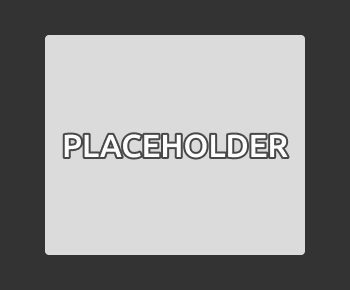
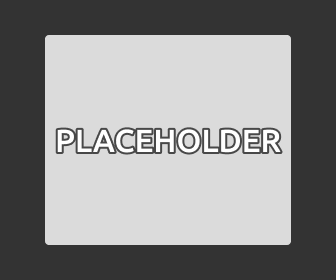
true arras-y main menu

Changed region(s): [[0.119, 0.1143, 0.8929, 0.8857]]

diff --git a/public/index.html b/public/index.html
@@ -28,20 +28,20 @@
             <div id="menuTabs" class="menuTabs" style="text-align: right;"></div>
             <div class="startMenu">
                 <div class="startMenuHolder linkHolder">
-                    <iframe src="img/ads/example_menu_ad.png" width="350" height="290" allowtransparency="true" frameborder="0" sandbox="allow-popups allow-popups-to-escape-sandbox allow-same-origin allow-scripts"></iframe>
+                    <div class="bannerHolder">
+                        <img src="img/ads/example_menu_ad.png" alt="Placeholder banner" width="336" height="280">
+                    </div>
                     <!--
                         Uncomment the line below if you want to add a link to your main menu ad.
 
                         Alternatively, remove the "src" to just show a blank spot in the menu.
                     -->
                     <!--<a href="https://example.com" style="position:absolute; top:0; left:0; display:inline-block; width:350px; height:290px; z-index:5;"></a>-->
-                    <div class="linkButtonHolder">
-                        <table>
-                            <td><a href="https://discord.gg/arras"><button id="discordButton" tabindex="2"><svg width="24" xmlns="http://www.w3.org/2000/svg" viewBox="0 0 127.14 106.36"><path d="M107.7,8.07A105.15,105.15,0,0,0,81.47,0a72.06,72.06,0,0,0-3.36,6.83A97.68,97.68,0,0,0,49,6.83,72.37,72.37,0,0,0,45.64,0,105.89,105.89,0,0,0,19.39,8.09C2.79,32.65-1.71,56.6.54,80.21h0A105.73,105.73,0,0,0,32.71,96.36,77.7,77.7,0,0,0,39.6,85.25a68.42,68.42,0,0,1-10.85-5.18c.91-.66,1.8-1.34,2.66-2a75.57,75.57,0,0,0,64.32,0c.87.71,1.76,1.39,2.66,2a68.68,68.68,0,0,1-10.87,5.19,77,77,0,0,0,6.89,11.1A105.25,105.25,0,0,0,126.6,80.22h0C129.24,52.84,122.09,29.11,107.7,8.07ZM42.45,65.69C36.18,65.69,31,60,31,53s5-12.74,11.43-12.74S54,46,53.89,53,48.84,65.69,42.45,65.69Zm42.24,0C78.41,65.69,73.25,60,73.25,53s5-12.74,11.44-12.74S96.23,46,96.12,53,91.08,65.69,84.69,65.69Z" style="fill:#fff" transform="translate(0 14)"/></svg></button></a></td>
-                            <td><a href="https://stt.gg/S4tqfeAK"><button id="stoatButton" tabindex="2"><svg width="24" height="24" viewBox="0 0 307 307" fill="none" xmlns="http://www.w3.org/2000/svg"><path fill-rule="evenodd" clip-rule="evenodd" d="M48.7444 265.014C18.7617 237.066 0 197.232 0 153.051C0 68.5793 68.5803 0 153.051 0C237.523 0 306.102 68.5793 306.102 153.051C306.102 223.35 258.604 282.642 193.978 300.558C179.634 279.483 166.634 260.286 176.354 228.687C164.495 234.74 157.041 246.645 154.785 259.588C150.372 252.653 145.473 245.964 139.797 240.005C125.351 224.835 105.654 214.227 96.5402 194.527C92.3762 185.222 89.5229 171.92 92.8212 162.292C95.2015 180.979 104.292 198.172 120.574 208.128C132.987 215.716 146.894 216.966 160.816 219.902C175.328 222.96 198.377 229.856 212.517 227.365C224.272 225.298 248.936 212.315 248.278 198.234C248.048 193.39 242.133 185.226 239.946 180.551C237.036 174.327 238.764 172.983 239.096 166.74C240.032 149.068 235.365 140.338 226.782 125.786C216.372 108.135 204.947 97.4689 185.159 90.3045C167.077 83.7548 139.247 87.462 139.035 87.7626C142.69 91.7704 146.055 96.4597 146.526 102.01C139.114 95.1544 131.943 87.8673 123.643 82.0551C105.285 69.2031 93.7862 70.4144 86.4873 92.7687C82.6835 104.416 79.8076 120.244 83.3334 132.157C85.4718 139.373 89.911 145.245 94.9659 150.66C85.0746 149.312 79.0782 140.721 76.8974 131.408C52.3803 184.439 46.922 210.082 48.7444 265.014ZM230.617 214.232L230.615 214.229C226.808 214.346 223.296 212.323 220.425 210.006C218.806 208.633 216.432 206.857 216.1 204.801C215.442 200.708 218.701 197.78 220.644 196.566C222.309 195.528 224.335 194.949 226.247 194.507C230.606 193.5 235.131 192.566 239.521 193.42C240.834 193.676 242.14 194.101 243.22 194.89C244.301 195.675 245.14 196.864 245.286 198.194C245.393 199.181 245.123 200.166 244.797 201.102C244.037 203.254 242.988 205.293 241.679 207.163C240.383 209.027 238.832 210.738 236.963 212.025C235.094 213.313 232.887 214.164 230.617 214.232ZM165.575 154.106C180.629 152.067 182.464 175.377 167.941 176.356C153.418 177.334 151.782 155.975 165.575 154.106ZM114.859 107.828C116.249 111.141 119.113 113.348 121.587 115.779C115.971 117.483 110.303 115.856 105.373 113.031C105.665 118.238 109.52 122.831 112.408 126.489C107.648 127.581 103.441 125.95 100.173 122.513C100.126 127.352 101.774 131.573 104.148 135.666C94.8639 140.284 90.8561 130.571 90.3822 122.97C89.8632 114.616 93.2437 93.5378 99.2373 87.4647C105.943 80.6686 116.359 88.5849 122.038 93.1487C127.05 97.1746 131.872 102.039 136.413 106.574C130.451 110.514 121.57 110.35 114.859 107.828ZM231.533 168.686C228.251 162.979 227.248 161.319 225.339 157.187C224.04 154.372 223.382 151.034 228.09 150.935C236.631 150.754 239.59 164.281 232.938 169.001C232.774 169.115 232.579 169.177 232.379 169.177C232.03 169.177 231.707 168.989 231.533 168.686ZM225.923 114.228C228.345 80.9177 228.062 59.3605 197.169 89.5977C208.83 95.0208 218.635 103.673 225.923 114.228Z" style="fill:#fff" transform="translate(0 7)"/></svg></button></a></td>
-                            <td><a href="https://www.youtube.com/@OpenSourceArras"><button id="youtubeButton" tabindex="2"><svg width="24" xmlns="http://www.w3.org/2000/svg" viewBox="0 0 1214.9 1000"><path d="M 485.938,242.969 V 607.426 L 801.555,425.195 Z m 703.522,474.636 c -13.97,52.266 -55.13,93.434 -107.4,107.403 -94.744,25.387 -474.638,25.387 -474.638,25.387 0,0 -379.891,0 -474.633,-25.387 C 80.5234,811.039 39.3555,769.871 25.3867,717.605 0,622.863 0,425.199 0,425.199 c 0,0 0,-197.672 25.3867,-292.41 C 39.3555,80.5273 80.5234,39.3555 132.789,25.3906 227.531,-0.00390625 607.422,-0.00390625 607.422,-0.00390625 c 0,0 379.894,0 474.638,25.39450625 52.27,13.9649 93.43,55.1367 107.4,107.3984 25.39,94.738 25.39,292.41 25.39,292.41 0,0 0,197.664 -25.39,292.406" style="fill:#fff" transform="translate(0 100)"/><script xmlns=""/></svg></button></a></td>
-                            <td><a href="https://github.com/AE0hello/open-source-arras"><button id="githubButton" tabindex="2"><b>Source Code</b></button></a></td>
-                        </table>
+                    <div class="bottomHolder">
+                        <a style="background: #5865f2;" href="https://discord.gg/arras"><img src="img/discord.svg" alt="Discord" width="24" height="24"></a>
+                        <a style="background: #282038;" href="https://stt.gg/S4tqfeAK"><img src="img/stoat.svg" alt="Stoat" width="24" height="24"></a>
+                        <a style="background: #f71701;" href="https://www.youtube.com/@OpenSourceArras"><img src="img/youtube.svg" alt="YouTube" width="24" height="24"></a>
+                        <a style="background: #00b0e0;" href="https://github.com/AE0hello/open-source-arras"><img src="img/source.svg" alt="Source Code" width="24" height="24"><span id="sourceCodeText" class="extraText">Source Code</span></a>
                     </div>
                 </div>
                 <div class="startMenuHolder mainHolder">

diff --git a/public/main.css b/public/main.css
@@ -417,9 +417,8 @@ body.mobile .startMenuHolder.changelogHolder {
 .bannerHolder {
 	display: block;
 	width: 336px;
-	height: 280px;
-	margin: 0 8px 7px 7px;
-	padding: 14px;
+	height: 300px;
+	margin: 0 8px 3px 7px;
 	text-align: center;
 }
 
@@ -442,7 +441,7 @@ body.mobile .startMenuHolder.changelogHolder {
 
 .menuTab {
 	font: 13px/28px Ubuntu;
-	padding: 6px 11px;
+	padding: 6px 12px;
 	border-radius: 5px 5px 0 0;
 	color: #fff !important;
 	margin: 0 6px;
@@ -809,167 +808,46 @@ body.mobile .startMenuSlidingContent {
 	box-shadow: none;
 }
 
-#discordButton {
-	margin: 0;
-	margin-left: -3px;
-	margin-right: 3px;
-	width: 40px;
-	height: 40px;
-	box-sizing: border-box;
-	color: white;
-	text-align: center;
-	text-shadow: 0 0 3px rgba(0, 0, 0, 0.2), 0 1px 2px rgba(0, 0, 0, 0.2);
-	background: #5865f2;
-	border: 0;
-	border-bottom: 2px solid #4b56ce;
-	cursor: pointer;
-	box-shadow: inset 0 -2px #4b56ce;
-	border-radius: 5px;
-	font: 16px Ubuntu;
-}
-
-#discordButton:hover {
-	margin-top: 2px;
-	height: 38px;
-	border-bottom: 0px solid #4b56ce;
-}
-
-#discordButton:active {
-	margin-top: 2px;
-	height: 38px;
-	background: #4b56ce;
-	border-bottom: 0px;
-	outline: none;
-	box-shadow: none;
-}
-
-#stoatButton {
-	margin: 0;
-	margin-right: 3px;
-	width: 40px;
-	height: 40px;
-	box-sizing: border-box;
-	color: white;
-	text-align: center;
-	text-shadow: 0 0 3px rgba(0, 0, 0, 0.2), 0 1px 2px rgba(0, 0, 0, 0.2);
-	background: #282038;
-	border: 0;
-	border-bottom: 2px solid #221b30;
-	cursor: pointer;
-	box-shadow: inset 0 -2px #221b30;
-	border-radius: 5px;
-	font: 16px Ubuntu;
-}
-
-#stoatButton:hover {
-	margin-top: 2px;
-	height: 38px;
-	border-bottom: 0px solid #221b30;
-}
-
-#stoatButton:active {
-	margin-top: 2px;
-	height: 38px;
-	background: #221b30;
-	border-bottom: 0px;
-	outline: none;
-	box-shadow: none;
-}
-
-#youtubeButton {
-	margin: 0;
-	margin-right: 3px;
-	width: 40px;
-	height: 40px;
-	box-sizing: border-box;
-	color: white;
-	text-align: center;
-	text-shadow: 0 0 3px rgba(0, 0, 0, 0.2), 0 1px 2px rgba(0, 0, 0, 0.2);
-	background: #f71701;
-	border: 0;
-	border-bottom: 2px solid #c51200;
-	cursor: pointer;
-	box-shadow: inset 0 -2px #c51200;
-	border-radius: 5px;
-	font: 16px Ubuntu;
-}
-
-#youtubeButton:hover {
-	margin-top: 2px;
-	height: 38px;
-	border-bottom: 0px solid #c51200;
-}
-
-#youtubeButton:active {
-	margin-top: 2px;
-	height: 38px;
-	background: #c51200;
-	border-bottom: 0px;
-	outline: none;
-	box-shadow: none;
-}
-
-#githubButton {
-	margin: 0;
-	width: 209px;
-	height: 40px;
-	box-sizing: border-box;
-	color: white;
-	text-align: center;
-	text-shadow: 0 0 3px rgba(0, 0, 0, 0.2), 0 1px 2px rgba(0, 0, 0, 0.2);
-	background: #00b0e0;
-	border: 0;
-	border-bottom: 2px solid #008cb3;
-	cursor: pointer;
-	box-shadow: inset 0 -2px #008cb3;
-	border-radius: 5px;
-	font: 16px Ubuntu;
-}
-
-#githubButton:hover {
-	margin-top: 2px;
-	height: 38px;
-	border-bottom: 0px solid #008cb3;
-}
-
-#githubButton:active {
-	margin-top: 2px;
-	height: 38px;
-	background: #008cb3;
-	border-bottom: 0px;
-	outline: none;
-	box-shadow: none;
-}
-
 .bottomHolder>a {
 	display: inline-block;
 	position: relative;
 	margin: 2px;
-	border: 0px;
-	padding: 6px 0;
-	width: 110px;
-	height: 16px;
-	font-size: smaller;
+	width: 40px;
+	height: 40px;
+	box-sizing: border-box;
+	padding: 7px 8px 9px;
 	color: white !important;
-	text-align: center;
-	text-shadow: 0 1px 2px rgba(0, 0, 0, 0.25);
 	text-decoration: none;
-	cursor: pointer;
+	text-shadow: 0 1px 2px rgba(0, 0, 0, 0.25);
 	background: #b58efd;
-	border-radius: 5px;
+	border: 0;
+	cursor: pointer;
 	box-shadow: inset 0 -4px rgba(0, 0, 0, 0.15);
+	border-radius: 5px;
+}
+
+.bottomHolder>a:last-child {
+	width: 204px;
 }
 
 .bottomHolder>a:hover {
 	top: 1px;
-	height: 15px;
+	height: 39px;
 	box-shadow: inset 0 -3px rgba(0, 0, 0, 0.15);
 }
 
 .bottomHolder>a:active {
 	top: 4px;
-	height: 12px;
-	box-shadow: inset 0 -25px rgba(0, 0, 0, 0.15);
+	height: 36px;
+	box-shadow: inset 0 -49px rgba(0, 0, 0, 0.15);
+}
+
+.bottomHolder>a>.extraText {
+	display: inline-block;
+	height: 24px;
+	margin-left: 8px;
+	font: bold 13px/24px Ubuntu;
+	vertical-align: top;
 }
 
 /* Customize the label (the container) */
